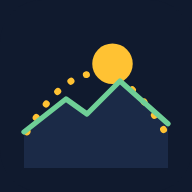
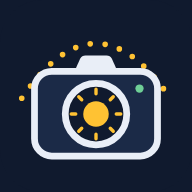
v0.1.1: nytt ikon med kamera og sol
Claude-Session: https://claude.ai/code/session_01FzodHBYErReGQnERwWK5HN

diff --git a/tests/release.test.js b/tests/release.test.js
@@ -24,3 +24,19 @@ test('manifestet peker på eksisterende ikoner', () => {
   const man = JSON.parse(read('manifest.webmanifest'));
   for (const i of man.icons) assert.ok(existsSync(new URL(i.src, root)), `mangler ${i.src}`);
 });
+
+test('PNG-ikonene har størrelsen manifestet oppgir', () => {
+  const man = JSON.parse(read('manifest.webmanifest'));
+  for (const i of man.icons.filter((x) => x.type === 'image/png')) {
+    const buf = readFileSync(new URL(i.src, root));
+    assert.equal(buf.toString('ascii', 1, 4), 'PNG', `${i.src} er ikke PNG`);
+    const w = buf.readUInt32BE(16), h = buf.readUInt32BE(20);
+    assert.equal(`${w}x${h}`, i.sizes, i.src);
+  }
+});
+
+test('SVG-ikonet viser kamera og sol', () => {
+  const svg = read('icons/icon.svg');
+  assert.match(svg, /id="kamera"/);
+  assert.match(svg, /id="sol"/);
+});

diff --git a/sw.js b/sw.js
@@ -1,5 +1,5 @@
 // Solblikk service worker – app-skall offline, kartfliser hurtiglagret.
-const VERSION = '0.1.0';
+const VERSION = '0.1.1';
 const SHELL = `solblikk-shell-${VERSION}`;
 const TILES = 'solblikk-tiles';
 const MAX_TILES = 1500;

diff --git a/js/version.js b/js/version.js
@@ -1,1 +1,1 @@
-export const VERSION = '0.1.0';
+export const VERSION = '0.1.1';

diff --git a/CHANGELOG.md b/CHANGELOG.md
@@ -2,6 +2,14 @@
 
 Formatet følger [Keep a Changelog](https://keepachangelog.com/no/1.1.0/), og versjoneringen følger [semantisk versjonering](https://semver.org/lang/no/).
 
+## [0.1.1] – 2026-10-26
+
+### Endret
+- Nytt app-ikon: kamera med sola i linsen og solbanen som prikket bue over.
+
+### Lagt til
+- Tester som sjekker at PNG-ikonene har størrelsen manifestet oppgir.
+
 ## [0.1.0] – 2026-10-26
 
 Første versjon. Bygget med testdrevet utvikling (55+ automatiske tester, `npm test`).
